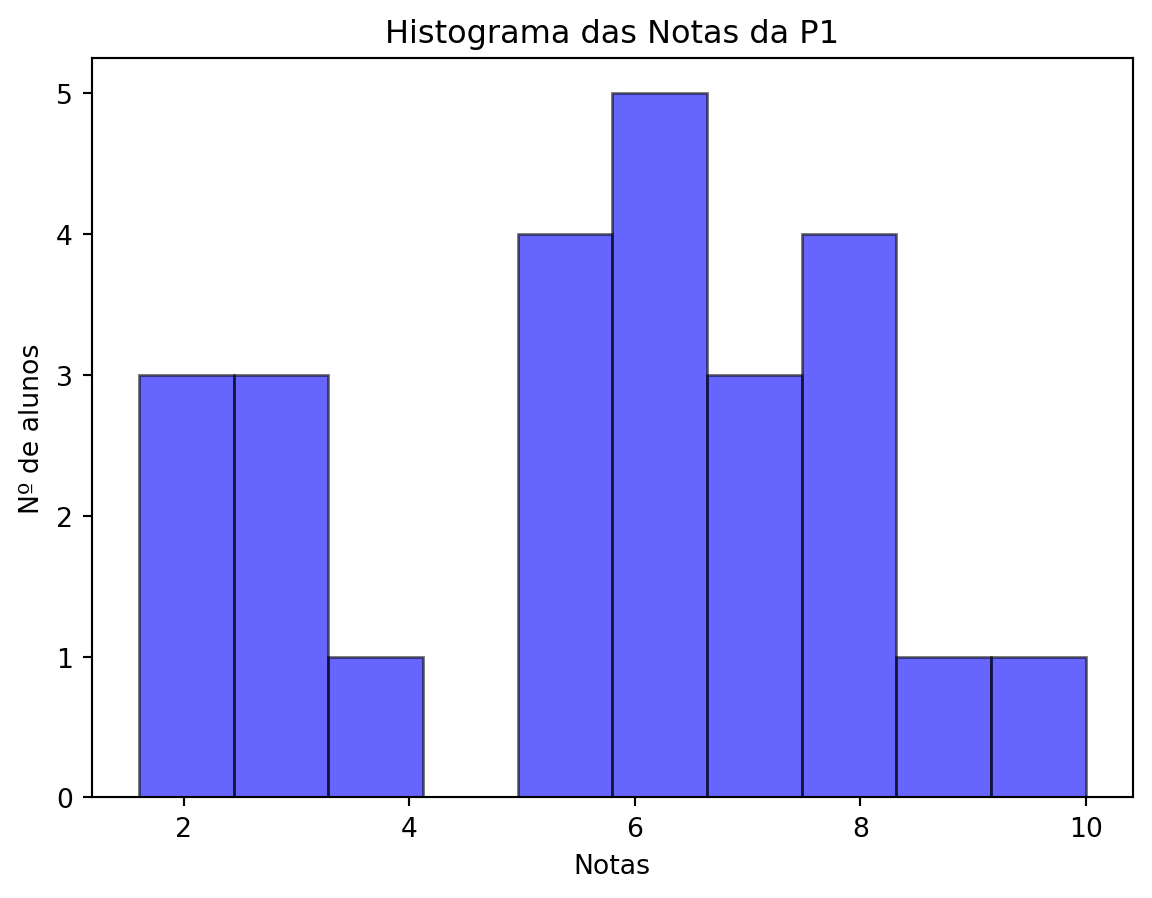
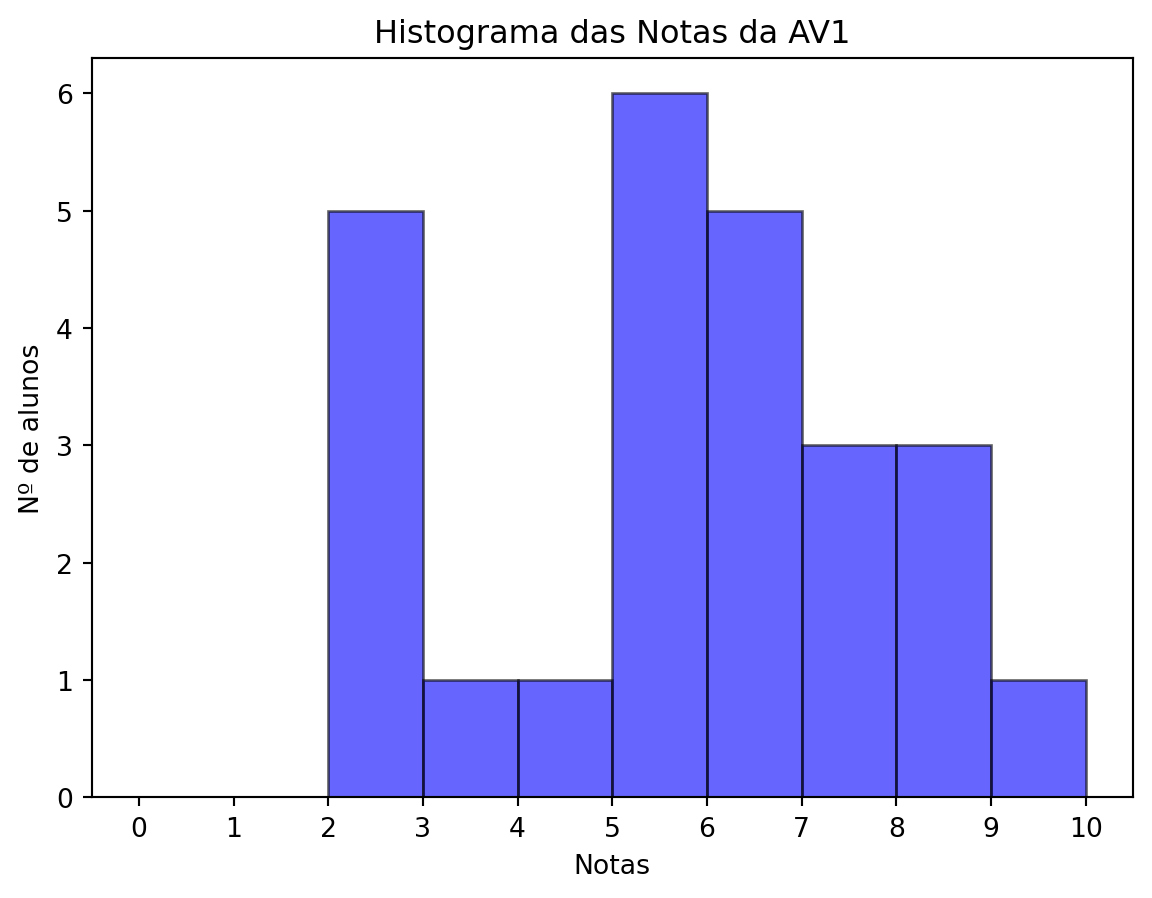
resultados p2 calculo 3

diff --git a/docs/calculoIII/2025-1/c3-A-2025-1.html b/docs/calculoIII/2025-1/c3-A-2025-1.html
@@ -210,7 +210,8 @@ window.Quarto = {
   <li><a href="#sec-crono" id="toc-sec-crono" class="nav-link" data-scroll-target="#sec-crono"><span class="header-section-number">6</span> Cronograma Efetivado</a></li>
   <li><a href="#resultados" id="toc-resultados" class="nav-link" data-scroll-target="#resultados"><span class="header-section-number">7</span> Resultados</a>
   <ul class="collapse">
-  <li><a href="#ª-verificação-de-aprendizagem" id="toc-ª-verificação-de-aprendizagem" class="nav-link" data-scroll-target="#ª-verificação-de-aprendizagem">1ª Verificação de Aprendizagem</a></li>
+  <li><a href="#ª-verificação" id="toc-ª-verificação" class="nav-link" data-scroll-target="#ª-verificação">1ª Verificação</a></li>
+  <li><a href="#ª-verificação-1" id="toc-ª-verificação-1" class="nav-link" data-scroll-target="#ª-verificação-1">2ª Verificação</a></li>
   </ul></li>
   <li><a href="#cronograma-proposto-incialmente" id="toc-cronograma-proposto-incialmente" class="nav-link" data-scroll-target="#cronograma-proposto-incialmente"><span class="header-section-number">8</span> Cronograma Proposto Incialmente</a></li>
   </ul>
@@ -451,16 +452,16 @@ Importante
 </section>
 <section id="resultados" class="level1" data-number="7">
 <h1 data-number="7"><span class="header-section-number">7</span> Resultados</h1>
-<section id="ª-verificação-de-aprendizagem" class="level2 unnumbered">
-<h2 class="unnumbered anchored" data-anchor-id="ª-verificação-de-aprendizagem">1ª Verificação de Aprendizagem</h2>
-<p>Compareceram à 1ª verificação <strong>25</strong> alunos, de um total de <strong>32</strong> inscritos, isto é, 78.12 %.</p>
+<section id="ª-verificação" class="level2 unnumbered">
+<h2 class="unnumbered anchored" data-anchor-id="ª-verificação">1ª Verificação</h2>
+<p>Compareceram à 1ª verificação <strong>25</strong> alunos, de um total de <strong>31</strong> inscritos, isto é, 80.65 %.</p>
 <p><img src="c3-A-2025-1_files/figure-html/cell-2-output-2.png" width="576" height="449"></p>
 <table class="table-striped table-hover caption-top table">
 <caption>Resumo</caption>
 <thead>
 <tr class="header">
 <th>Classificação</th>
-<th>Notas</th>
+<th>Nº alunos</th>
 <th>Porcentagem</th>
 </tr>
 </thead>
@@ -487,6 +488,57 @@ Importante
 </tr>
 </tbody>
 </table>
+<p>=== Medidas de Tendência Central ===</p>
+<p>Média: 5.75</p>
+<p>Mediana: 5.90</p>
+<p>Média Aparada (10%): 5.74</p>
+<p>=== Forma da Distribuição ===</p>
+<p>Assimetria: -0.21</p>
+<p>Curtose: -0.81</p>
+</section>
+<section id="ª-verificação-1" class="level2 unnumbered">
+<h2 class="unnumbered anchored" data-anchor-id="ª-verificação-1">2ª Verificação</h2>
+<p>Compareceram à 2ª verificação <strong>27</strong> alunos, de um total de <strong>31</strong> inscritos, isto é, 87.1 %.</p>
+<p><img src="c3-A-2025-1_files/figure-html/cell-2-output-4.png" width="585" height="449"></p>
+<table class="table-striped table-hover caption-top table">
+<caption>Resumo</caption>
+<thead>
+<tr class="header">
+<th>Classificação</th>
+<th>Nº alunos</th>
+<th>Porcentagem</th>
+</tr>
+</thead>
+<tbody>
+<tr class="odd">
+<td>Notas acima de 6</td>
+<td>26</td>
+<td>96.3 %</td>
+</tr>
+<tr class="even">
+<td>Notas entre 4 e 6</td>
+<td>0</td>
+<td>0.0 %</td>
+</tr>
+<tr class="odd">
+<td>Notas abaixo de 4</td>
+<td>0</td>
+<td>0.0 %</td>
+</tr>
+<tr class="even">
+<td>Total</td>
+<td>27</td>
+<td>100 %</td>
+</tr>
+</tbody>
+</table>
+<p>=== Medidas de Tendência Central ===</p>
+<p>Média: 9.25</p>
+<p>Mediana: 9.50</p>
+<p>Média Aparada (10%): 9.33</p>
+<p>=== Forma da Distribuição ===</p>
+<p>Assimetria: -1.14</p>
+<p>Curtose: 0.83</p>
 </section>
 </section>
 <section id="cronograma-proposto-incialmente" class="level1" data-number="8">
